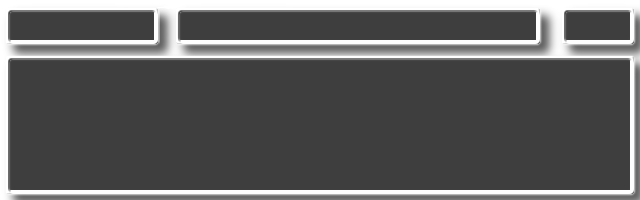
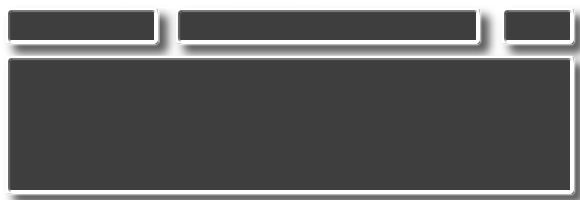
John Patrick Poet's patch to add the "UPCOMING" keybinding in the playbox. Fit the defaultosd inside the 'action area' (hope to start a trend ;-).
git-svn-id: http://svn.mythtv.org/svn/trunk@4439 7dbf422c-18fa-0310-86e9-fd20926502f2

diff --git a/mythtv/programs/mythfrontend/playbackbox.cpp b/mythtv/programs/mythfrontend/playbackbox.cpp
@@ -22,6 +22,7 @@
 using namespace std;
 
 #include "playbackbox.h"
+#include "proglist.h"
 #include "tv.h"
 #include "oldsettings.h"
 #include "NuppelVideoPlayer.h"
@@ -1286,6 +1287,20 @@ void PlaybackBox::expireSelected()
     expire(curitem);
 }
 
+void PlaybackBox::upcoming()
+{
+    state = kStopping;
+
+    if (!curitem)
+        return;
+
+    ProgLister *pl = new ProgLister(plTitle, curitem->title,
+                                   QSqlDatabase::database(),
+                                   gContext->GetMainWindow(), "proglist");
+    pl->exec();
+    delete pl;
+}
+
 void PlaybackBox::details()
 {
     state = kStopping;
@@ -1512,7 +1527,7 @@ void PlaybackBox::showDeletePopup(ProgramInfo *program, deletePopupType types)
     if ((types == EndOfRecording || types == DeleteRecording) &&
         (program->IsSameProgram(*program)))
     {
-        tmpmessage = tr("Yes, but allow future recordings of this episode"); 
+        tmpmessage = tr("Yes, and allow re-record"); 
         tmpslot = SLOT(doDeleteForgetHistory());
         popup->addButton(tmpmessage, this, tmpslot);
     }
@@ -1997,6 +2012,8 @@ void PlaybackBox::keyPressEvent(QKeyEvent *e)
                 showActionsSelected();
             else if (action == "DETAILS")
                 details();
+            else if (action == "UPCOMING")
+                upcoming();
             else if (action == "SELECT")
                 selected();
             else if (action == "UP")

diff --git a/mythtv/programs/mythfrontend/playbackbox.h b/mythtv/programs/mythfrontend/playbackbox.h
@@ -41,6 +41,7 @@ class PlaybackBox : public MythDialog
     void cursorUp(bool page = false, bool newview = false);
     void pageDown() { cursorDown(true); }
     void pageUp() { cursorUp(true); }
+    void upcoming();
     void details();
     void selected();
     void playSelected();
